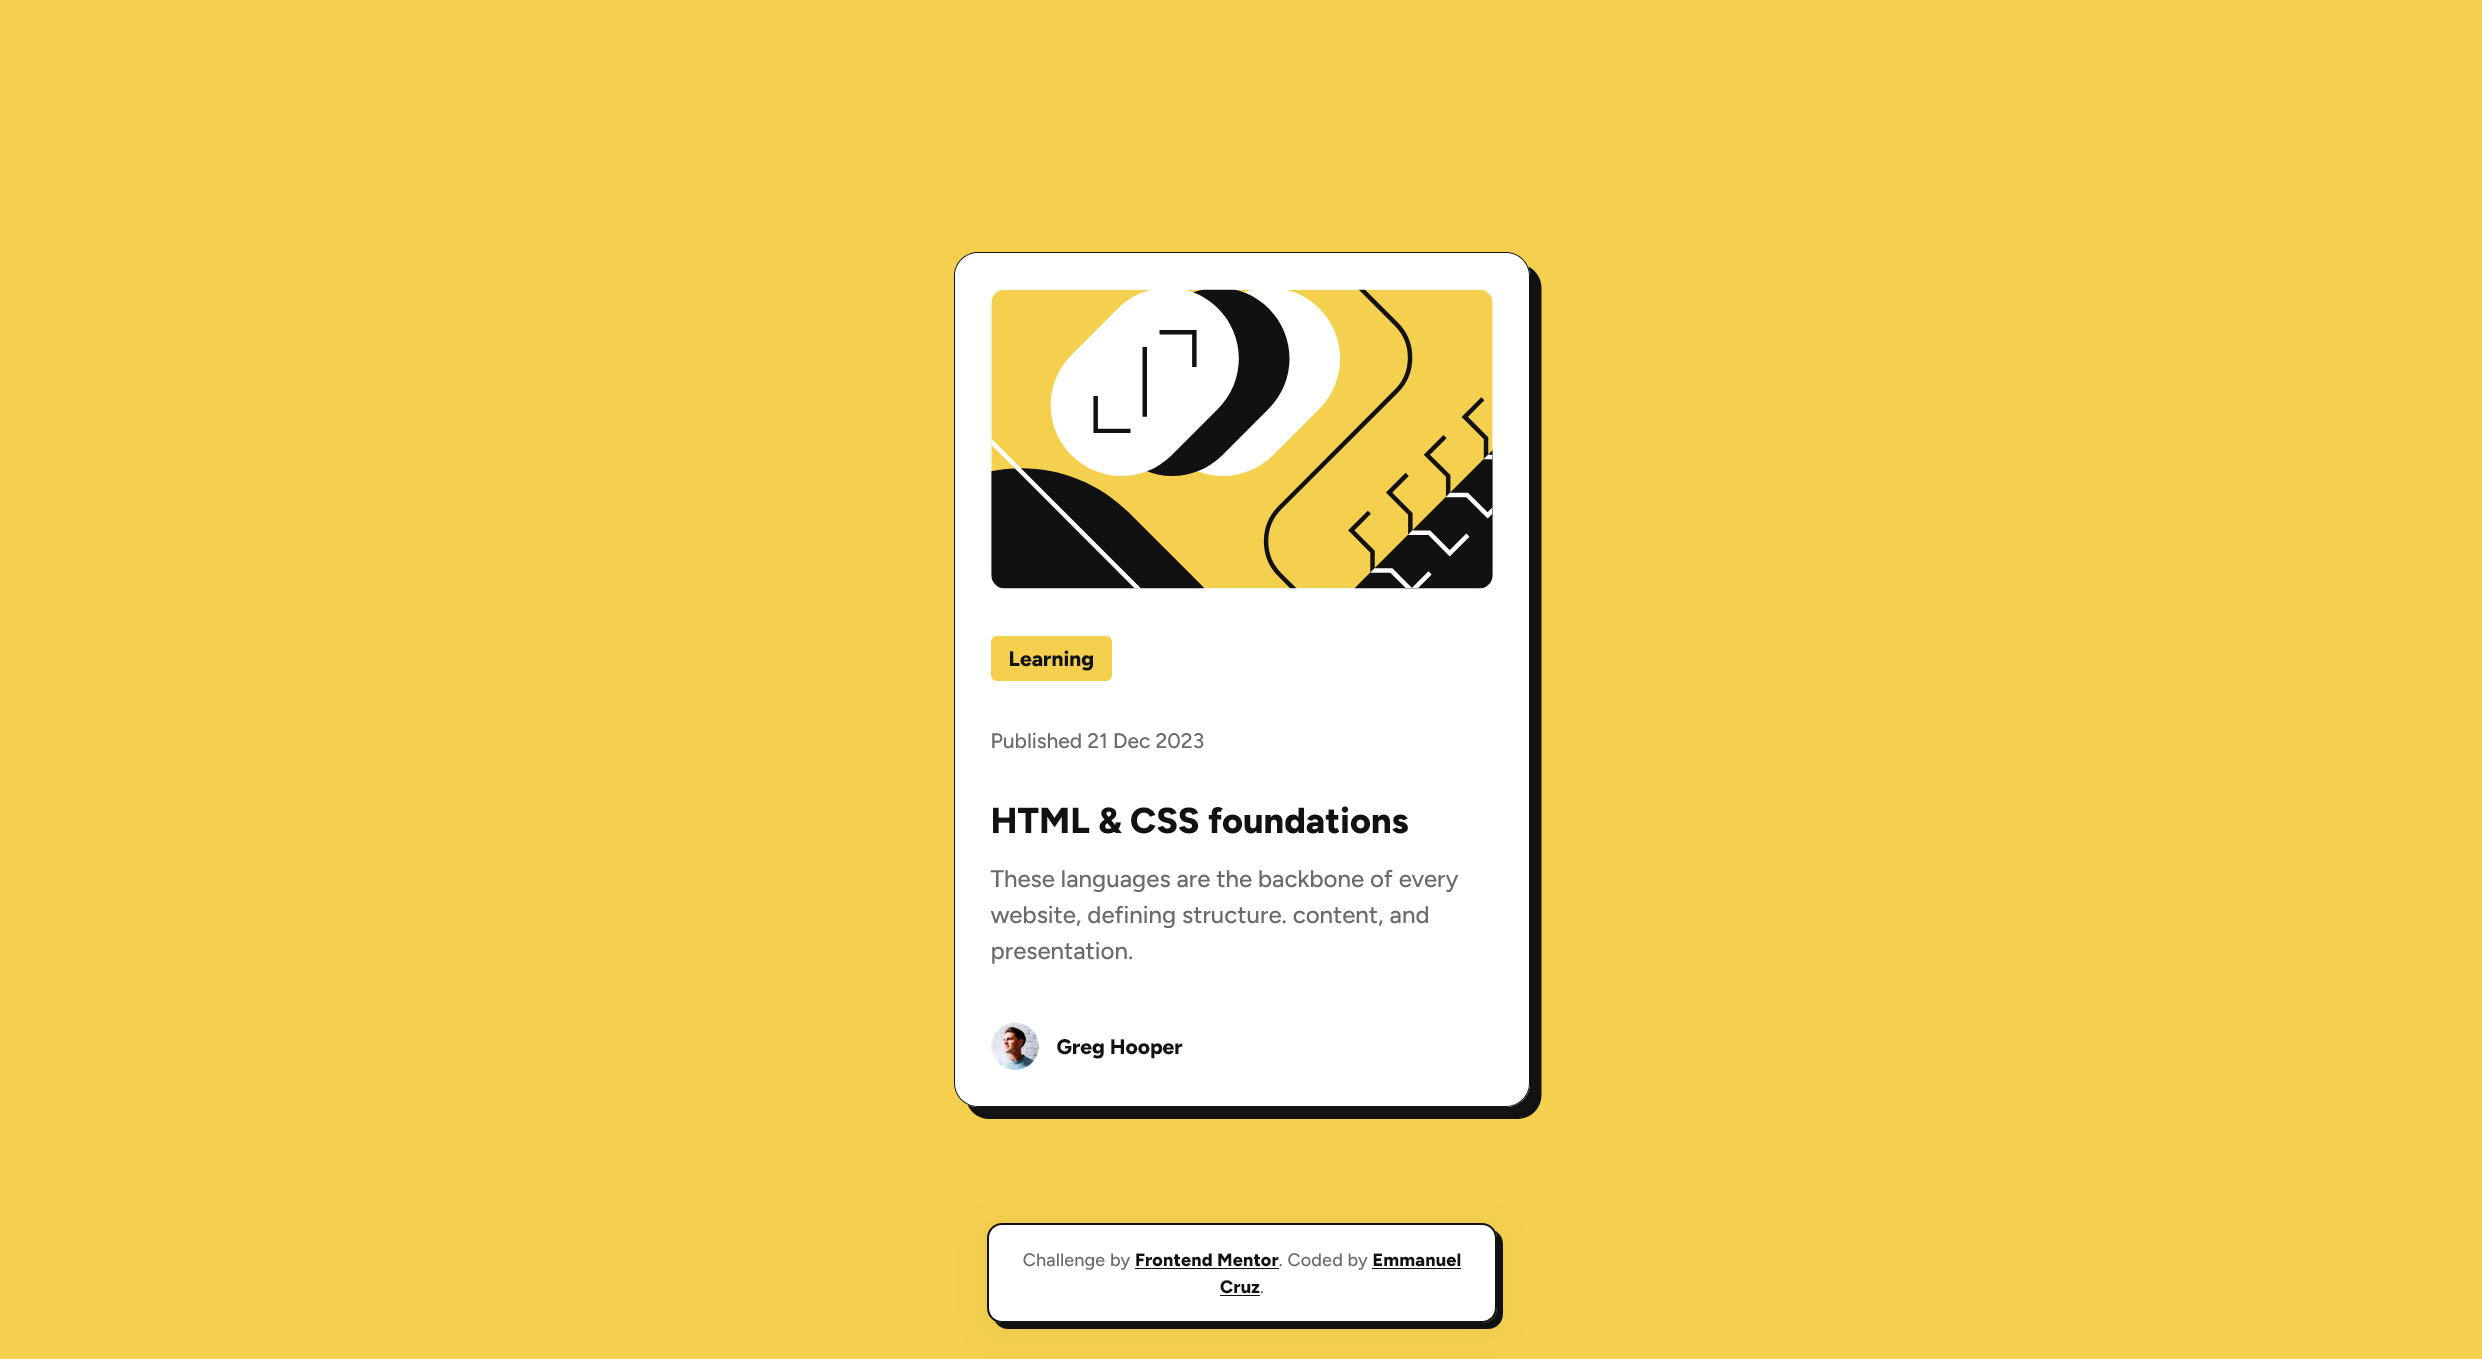
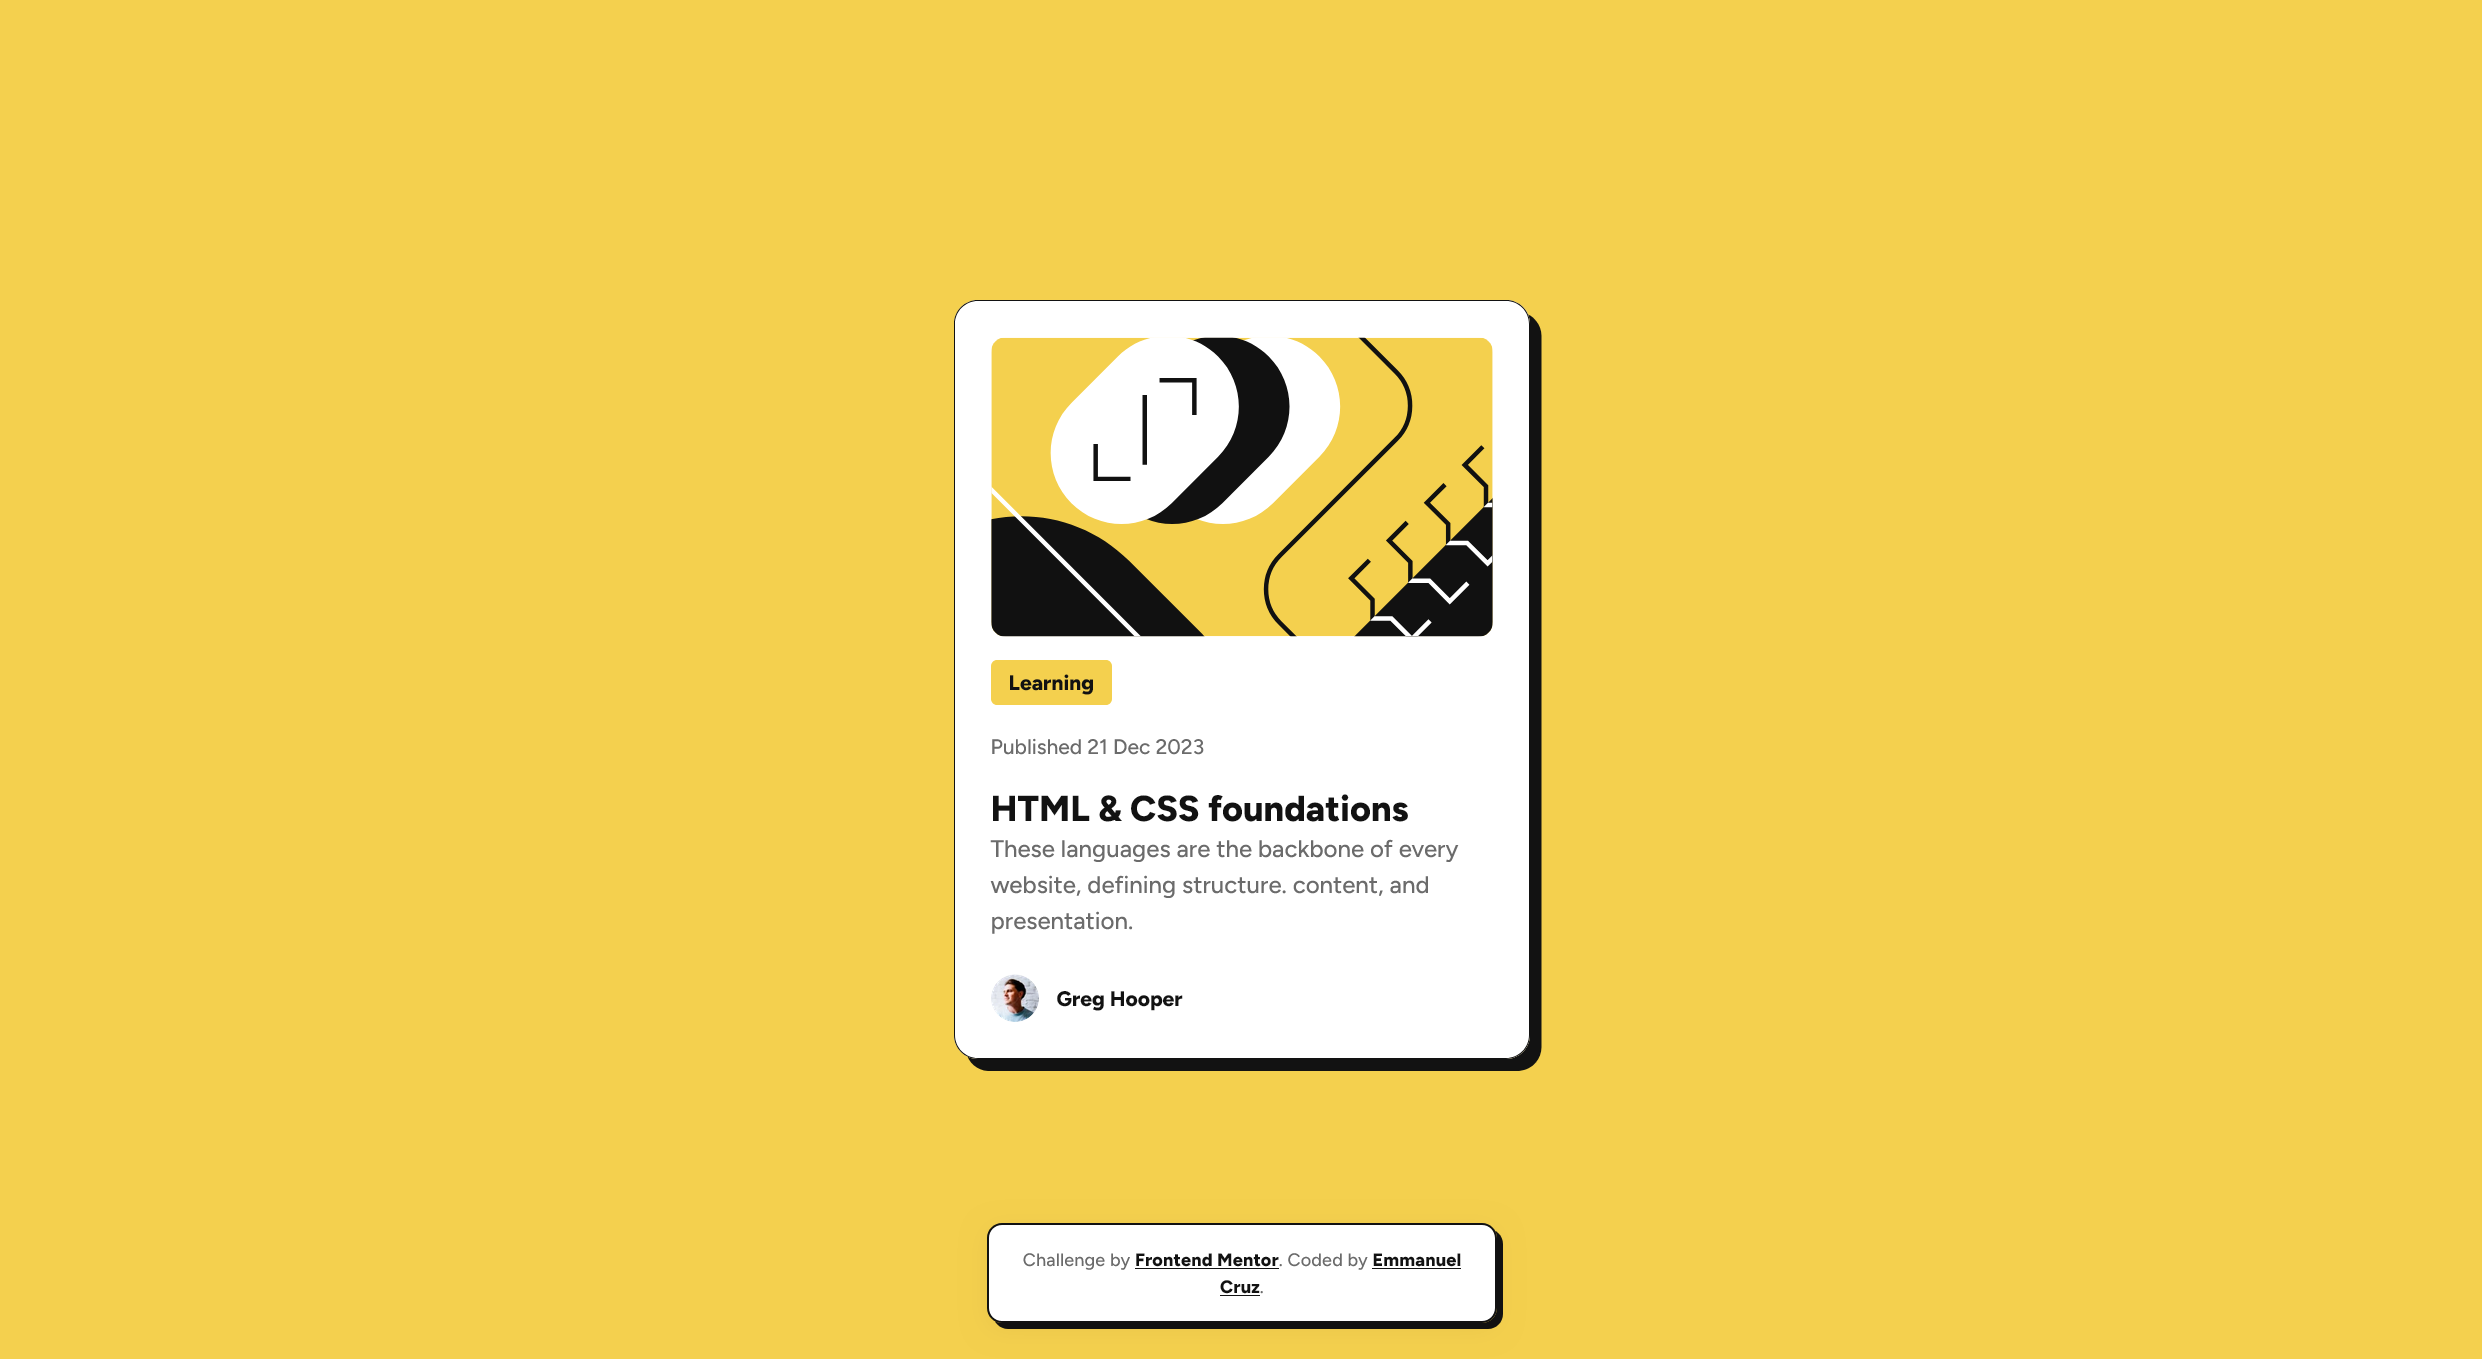
README updated and all changes published

Changed region(s): [[0.3723, 0.1854, 0.6205, 0.5563], [0.3723, 0.5872, 0.6205, 0.8344]]

diff --git a/newbie/blog-preview-card/styles/index.css b/newbie/blog-preview-card/styles/index.css
@@ -11,7 +11,7 @@
 
 /* Illustration container */
 .illustration-container {
-  margin-bottom: 24px;
+  margin-bottom: 8px;
 }
 
 .illustration-container img {
@@ -25,7 +25,6 @@
 .info-container {
   display: flex;
   flex-direction: column;
-  gap: 12px;
 }
 
 /* Topic label */
